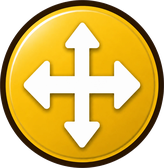
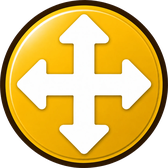
図面・積算：ツールバーのアイコン15枚を登録（版 2026-08-16c）
- 新規12枚（段差ライン・2画面・ヨコ/タテ割付・中抜き・部材スタンプ6種・夜画面）
- 差し替え3枚（角度表示・範囲選択・移動）はURLに版名を付けて古い絵を捨てさせる
- アイコンで広がった幅を詰め、1600px幅でも3かたまりが1段に収まることを確認

Claude-Session: https://claude.ai/code/session_01HheoEvm1X5PwodSPWAocXz

Changed region(s): [[0.0, 0.0298, 1.0, 1.0]]

diff --git a/zumen_sekisan.html b/zumen_sekisan.html
@@ -3607,8 +3607,9 @@ if(NN_PHONE)(function(){
 window.NN_TB_ICONS=[
   ['tl_undo','btn_undo'],   ['tl_redo','btn_redo'],   ['tl_del','btn_del'],
   ['tl_draw','btn_draw'],   ['tl_sel','btn_sel'],     ['tl_hole','btn_hole'],
-  ['tl_split','btn_split'], ['tl_rect','btn_rect'],   ['tl_pan','btn_pan'],
-  ['tl_rdel','btn_rdel'],   ['tl_ang','btn_ang'],     ['tl_wfdim','btn_wfdim'],
+  ['tl_split','btn_split'], ['tl_rect','btn_rect','2026-08-16c'], ['tl_pan','btn_pan','2026-08-16c'],
+  /* ★同じ名前で中身を差し替えた絵は3つ目に版名（URLに付けて古い絵を捨てさせる・§66） */
+  ['tl_rdel','btn_rdel'],   ['tl_ang','btn_ang','2026-08-16c'], ['tl_wfdim','btn_wfdim'],
   ['tl_theme','btn_theme'], ['tl_grid','btn_grid'],   ['tl_dims','btn_dims'],
   ['tl_save','btn_save'],   ['tl_open','btn_open'],   ['tl_photo','btn_photo'],
   ['tl_2pane','btn_2pane'], ['tl_sample','btn_sample'],['tl_clear','btn_clear'],
@@ -3621,7 +3622,7 @@ window.NN_TB_ICONS=[
   ['tl_night','btn_night'],         ['tl_day','btn_day']
 ];
 window.nnTbIcons=function(){
-  NN_TB_ICONS.forEach(([id,file])=>{
+  NN_TB_ICONS.forEach(([id,file,ver])=>{
     const b=document.getElementById(id); if(!b||b._nnIcon)return;
     b._nnIcon=1;
     /* 文字を .tbtx で包んでから、絵があれば差し替える */
@@ -3630,7 +3631,8 @@ window.nnTbIcons=function(){
       b.textContent=''; b.appendChild(tx);
     }
     const im=document.createElement('img');
-    im.className='tbi'; im.alt=b.title||id; im.src='./icons/'+file+'.png';
+    im.className='tbi'; im.alt=b.title||id;
+    im.src='./icons/'+file+'.png'+(ver?('?v='+ver):'');
     im.onload=()=>{ b.classList.add('hasimg');
       /* ★2026-08-16b 絵が付いたら、文字の先頭の絵文字（🗑 ▦ など）は消す（二重になるため） */
       const tx=b.querySelector('.tbtx');
@@ -4173,7 +4175,7 @@ nav, nav#nav{justify-content:center !important; padding-left:6px !important; pad
    古いものが出続けることがある。そこで ver.txt（数バイト）だけを
    毎回見に行き、公開版と違っていたら保存分を捨てて1回だけ読み直す。
    ★公開のたびに ver.txt と、下の NN_VER を同じ文字に更新すること。 */
-const NN_VER='2026-08-16b';
+const NN_VER='2026-08-16c';
 /* ============ 表示にかかった時間の記録（原因調査用・2026-07-28） ============
    スマホの実機でどこに時間がかかっているかを数字で出す。
    ・net  ＝ページを要求してから最初の返事が来るまで（通信の待ち）
@@ -6732,9 +6734,9 @@ body.nnsplit2 #three-wrap{display:block; top:56%; border-top:2px solid var(--lin
    パソコン＝3つのかたまり（A作図の基本／B機能・部材／C夜昼）を横に並べ、中は行で組む。
    スマホ＝.tbg/.tbrow を display:contents で「無かったこと」にし、
    今までどおり1列＋「⋯道具」メニューの作りをそのまま使う。 */
-#toolbar{align-items:flex-start; gap:12px;}
+#toolbar{align-items:flex-start; gap:10px;}
 .tbg{display:flex; flex-direction:column; gap:6px; align-items:flex-start;}
-.tbg .tbrow{display:flex; gap:6px; align-items:center; flex-wrap:wrap;}
+.tbg .tbrow{display:flex; gap:5px; align-items:center; flex-wrap:wrap;}
 /* ★C（夜・昼）は右上に浮かせる。流れの中に置くと 1600px（＝2000pxモニター÷倍率1.25）で
    AとBが入りきらず、Bが下に落ちて2倍の厚みになった（実測 A579+B674+C91＞1122）。 */
 #tbgC{position:absolute; right:0; top:0; display:flex; flex-direction:column; gap:6px; align-items:flex-end;}
@@ -6743,9 +6745,9 @@ html[data-nnphone="1"] .tbg,
 html[data-nnphone="1"] .tbg .tbrow,
 html[data-nnphone="1"] #tbgC{display:contents; position:static;}
 /* 丸いアイコン＋文字のボタン。絵（icons/btn_◯.png）が届くと自動で左に付く */
-html:not([data-nnphone="1"]) .tbtn{border-radius:999px; padding:5px 10px; font-size:12px;}
-html:not([data-nnphone="1"]) .tbtn.hasimg{padding:3px 11px 3px 4px; gap:6px;}
-html:not([data-nnphone="1"]) .tbtn img.tbi{height:25px;}
+html:not([data-nnphone="1"]) .tbtn{border-radius:999px; padding:5px 9px; font-size:12px;}
+html:not([data-nnphone="1"]) .tbtn.hasimg{padding:3px 10px 3px 4px; gap:5px;}
+html:not([data-nnphone="1"]) .tbtn img.tbi{height:22px;}
 html:not([data-nnphone="1"]) .tsel{border-radius:999px; font-size:12px; padding:5px 7px;}
 </style>
 <script id="nn-split-js">

diff --git a/index.html b/index.html
@@ -384,7 +384,7 @@ nav, nav#nav{overflow:visible; padding-top:2px;}
 
 <!-- 版の表示：スマホに届いている中身がどれかを、お互いに確認するための小さな印。
      不要になったらこの1行と #nnver の指定を消してください。 -->
-<div id="nnver">v2026-08-16 b</div>
+<div id="nnver">v2026-08-16 c</div>
 <script>
 /* ============ 実機の計測結果を表示（原因調査用・2026-07-28） ============
    数字の意味（単位はミリ秒）
@@ -722,7 +722,7 @@ nav, nav#nav{justify-content:center !important; padding-left:6px !important; pad
    古いものが出続けることがある。そこで ver.txt（数バイト）だけを
    毎回見に行き、公開版と違っていたら保存分を捨てて1回だけ読み直す。
    ★公開のたびに ver.txt と、下の NN_VER を同じ文字に更新すること。 */
-const NN_VER='2026-08-16b';
+const NN_VER='2026-08-16c';
 /* ============ 表示にかかった時間の記録（原因調査用・2026-07-28） ============
    スマホの実機でどこに時間がかかっているかを数字で出す。
    ・net  ＝ページを要求してから最初の返事が来るまで（通信の待ち）

diff --git a/sw.js b/sw.js
@@ -11,7 +11,7 @@
      ので、こちらの修正が確実に端末へ届く。
      ★ページを直したら、必ずこの番号を1つ上げること。
    ============================================================ */
-const CACHE = 'nn-cache-v175';
+const CACHE = 'nn-cache-v176';
 
 const ASSETS = [
   './',
@@ -63,6 +63,11 @@ const ASSETS = [
   './icons/btn_back.png',      './icons/btn_menu.png',
   './icons/btn_ang.png','./icons/btn_draw.png','./icons/btn_rect.png','./icons/btn_pan.png',
   './icons/btn_clear.png','./icons/btn_del.png','./icons/btn_dims.png','./icons/btn_sel.png','./icons/btn_grid.png',
+  './icons/btn_split.png','./icons/btn_2pane.png',
+  './icons/btn_wari_h.png','./icons/btn_wari_v.png','./icons/btn_hole.png',
+  './icons/btn_p_hikomi.png','./icons/btn_p_oshidashi.png','./icons/btn_p_kasagi.png',
+  './icons/btn_p_dakki.png','./icons/btn_p_tatedrain.png','./icons/btn_p_yokodrain.png',
+  './icons/btn_night.png',
   './icons/roofph_1.jpg','./icons/roofph_2.jpg','./icons/roofph_3.jpg',
   './icons/roofph_4.jpg','./icons/roofph_5.jpg','./icons/roofph_6.jpg',
 ];

diff --git a/camera.html b/camera.html
@@ -1204,7 +1204,7 @@ nav, nav#nav{justify-content:center !important; padding-left:6px !important; pad
    古いものが出続けることがある。そこで ver.txt（数バイト）だけを
    毎回見に行き、公開版と違っていたら保存分を捨てて1回だけ読み直す。
    ★公開のたびに ver.txt と、下の NN_VER を同じ文字に更新すること。 */
-const NN_VER='2026-08-16b';
+const NN_VER='2026-08-16c';
 /* ============ 表示にかかった時間の記録（原因調査用・2026-07-28） ============
    スマホの実機でどこに時間がかかっているかを数字で出す。
    ・net  ＝ページを要求してから最初の返事が来るまで（通信の待ち）

diff --git a/genba_map_v36.html b/genba_map_v36.html
@@ -4911,7 +4911,7 @@ nav, nav#nav{justify-content:center !important; padding-left:6px !important; pad
    古いものが出続けることがある。そこで ver.txt（数バイト）だけを
    毎回見に行き、公開版と違っていたら保存分を捨てて1回だけ読み直す。
    ★公開のたびに ver.txt と、下の NN_VER を同じ文字に更新すること。 */
-const NN_VER='2026-08-16b';
+const NN_VER='2026-08-16c';
 /* ============ 表示にかかった時間の記録（原因調査用・2026-07-28） ============
    スマホの実機でどこに時間がかかっているかを数字で出す。
    ・net  ＝ページを要求してから最初の返事が来るまで（通信の待ち）

diff --git a/kirokucho_demo.html b/kirokucho_demo.html
@@ -4435,7 +4435,7 @@ nav, nav#nav{justify-content:center !important; padding-left:6px !important; pad
    古いものが出続けることがある。そこで ver.txt（数バイト）だけを
    毎回見に行き、公開版と違っていたら保存分を捨てて1回だけ読み直す。
    ★公開のたびに ver.txt と、下の NN_VER を同じ文字に更新すること。 */
-const NN_VER='2026-08-16b';
+const NN_VER='2026-08-16c';
 /* ============ 表示にかかった時間の記録（原因調査用・2026-07-28） ============
    スマホの実機でどこに時間がかかっているかを数字で出す。
    ・net  ＝ページを要求してから最初の返事が来るまで（通信の待ち）

diff --git a/kokkosho.html b/kokkosho.html
@@ -2386,7 +2386,7 @@ nav, nav#nav{justify-content:center !important; padding-left:6px !important; pad
    古いものが出続けることがある。そこで ver.txt（数バイト）だけを
    毎回見に行き、公開版と違っていたら保存分を捨てて1回だけ読み直す。
    ★公開のたびに ver.txt と、下の NN_VER を同じ文字に更新すること。 */
-const NN_VER='2026-08-16b';
+const NN_VER='2026-08-16c';
 /* ============ 表示にかかった時間の記録（原因調査用・2026-07-28） ============
    スマホの実機でどこに時間がかかっているかを数字で出す。
    ・net  ＝ページを要求してから最初の返事が来るまで（通信の待ち）

diff --git a/library.html b/library.html
@@ -1119,7 +1119,7 @@ nav, nav#nav{justify-content:center !important; padding-left:6px !important; pad
    古いものが出続けることがある。そこで ver.txt（数バイト）だけを
    毎回見に行き、公開版と違っていたら保存分を捨てて1回だけ読み直す。
    ★公開のたびに ver.txt と、下の NN_VER を同じ文字に更新すること。 */
-const NN_VER='2026-08-16b';
+const NN_VER='2026-08-16c';
 /* ============ 表示にかかった時間の記録（原因調査用・2026-07-28） ============
    スマホの実機でどこに時間がかかっているかを数字で出す。
    ・net  ＝ページを要求してから最初の返事が来るまで（通信の待ち）

diff --git a/shiyo_toroku.html b/shiyo_toroku.html
@@ -1626,7 +1626,7 @@ nav, nav#nav{justify-content:center !important; padding-left:6px !important; pad
    古いものが出続けることがある。そこで ver.txt（数バイト）だけを
    毎回見に行き、公開版と違っていたら保存分を捨てて1回だけ読み直す。
    ★公開のたびに ver.txt と、下の NN_VER を同じ文字に更新すること。 */
-const NN_VER='2026-08-16b';
+const NN_VER='2026-08-16c';
 /* ============ 表示にかかった時間の記録（原因調査用・2026-07-28） ============
    スマホの実機でどこに時間がかかっているかを数字で出す。
    ・net  ＝ページを要求してから最初の返事が来るまで（通信の待ち）

diff --git a/yougo.html b/yougo.html
@@ -1373,7 +1373,7 @@ nav, nav#nav{justify-content:center !important; padding-left:6px !important; pad
    古いものが出続けることがある。そこで ver.txt（数バイト）だけを
    毎回見に行き、公開版と違っていたら保存分を捨てて1回だけ読み直す。
    ★公開のたびに ver.txt と、下の NN_VER を同じ文字に更新すること。 */
-const NN_VER='2026-08-16b';
+const NN_VER='2026-08-16c';
 /* ============ 表示にかかった時間の記録（原因調査用・2026-07-28） ============
    スマホの実機でどこに時間がかかっているかを数字で出す。
    ・net  ＝ページを要求してから最初の返事が来るまで（通信の待ち）

diff --git a/zairyo_toroku.html b/zairyo_toroku.html
@@ -1512,7 +1512,7 @@ nav, nav#nav{justify-content:center !important; padding-left:6px !important; pad
    古いものが出続けることがある。そこで ver.txt（数バイト）だけを
    毎回見に行き、公開版と違っていたら保存分を捨てて1回だけ読み直す。
    ★公開のたびに ver.txt と、下の NN_VER を同じ文字に更新すること。 */
-const NN_VER='2026-08-16b';
+const NN_VER='2026-08-16c';
 /* ============ 表示にかかった時間の記録（原因調査用・2026-07-28） ============
    スマホの実機でどこに時間がかかっているかを数字で出す。
    ・net  ＝ページを要求してから最初の返事が来るまで（通信の待ち）

diff --git a/hacchu.html b/hacchu.html
@@ -983,7 +983,7 @@ nav, nav#nav{justify-content:center !important; padding-left:6px !important; pad
    古いものが出続けることがある。そこで ver.txt（数バイト）だけを
    毎回見に行き、公開版と違っていたら保存分を捨てて1回だけ読み直す。
    ★公開のたびに ver.txt と、下の NN_VER を同じ文字に更新すること。 */
-const NN_VER='2026-08-16b';
+const NN_VER='2026-08-16c';
 /* ============ 表示にかかった時間の記録（原因調査用・2026-07-28） ============
    スマホの実機でどこに時間がかかっているかを数字で出す。
    ・net  ＝ページを要求してから最初の返事が来るまで（通信の待ち）
